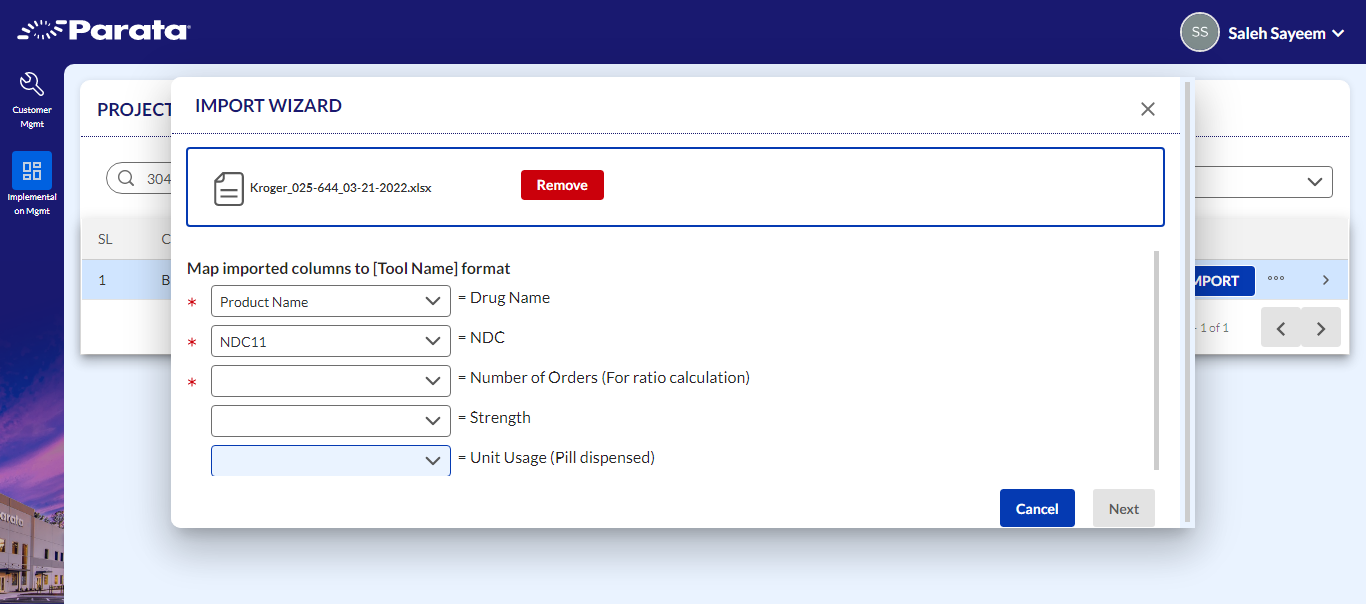
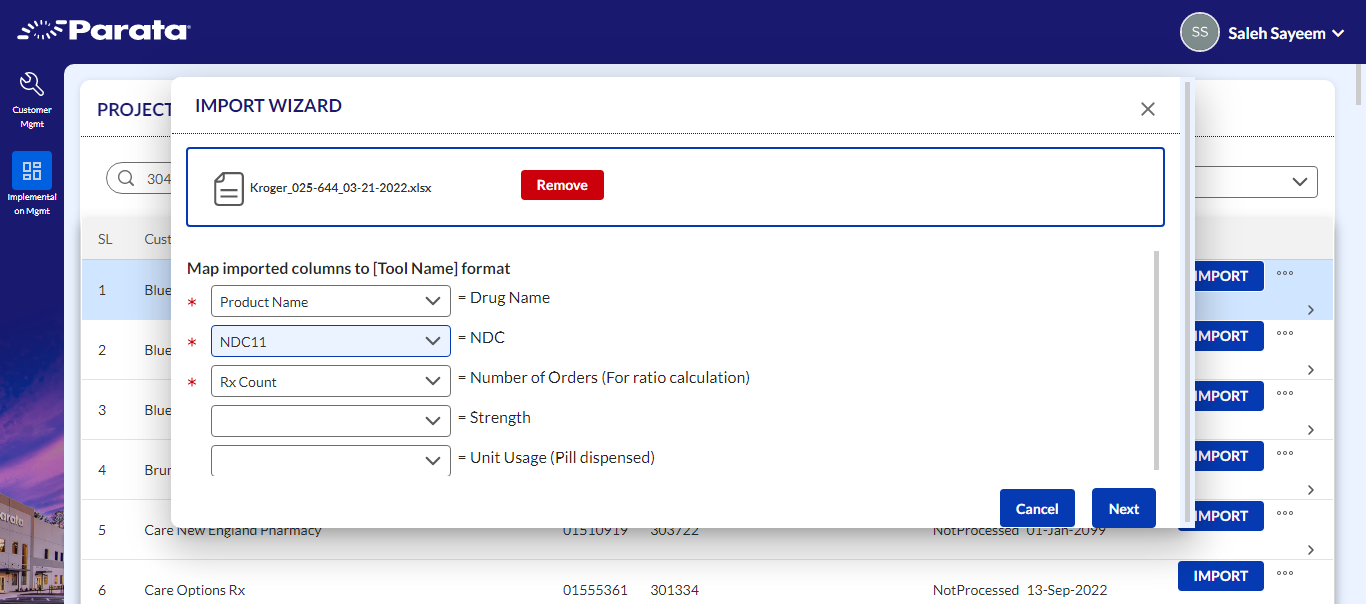
Import Page first phage

diff --git a/src/test/java/com/parata/steps/ImplementationMPageSteps.java b/src/test/java/com/parata/steps/ImplementationMPageSteps.java
@@ -106,19 +106,22 @@ public class ImplementationMPageSteps extends AutomationBase {
 
     @Then("user clicks Rx from drug dropdown")
     public void userClicksDrugMapDropdown3() throws InterruptedException {
-        implementationMPage.selectBtnRxDragName();
+        implementationMPage.userselectMapDropdown3();
         smartWait.waitUntilPageIsLoaded(10);
     }
 
     @Then("select {string} Rx from drug dropdown")
     public void selectDrugRxName(String arg0) throws InterruptedException {
         Utility.dropdownCount(openDriver(), ".mat-option>span");
-        implementationMPage.userselectMapDropdown3();
+        implementationMPage.selectBtnRxDragName();
         smartWait.waitUntilPageIsLoaded(10);
     }
 
-
-
+    @Then("user click next button")
+    public void userClicksNextButton() throws InterruptedException {
+        implementationMPage.userclickedNextButton();
+        smartWait.waitUntilPageIsLoaded(10);
+    }
 
 }
 

diff --git a/src/test/java/com/parata/pages/ImplementationMPage.java b/src/test/java/com/parata/pages/ImplementationMPage.java
@@ -60,6 +60,10 @@ public class ImplementationMPage extends CommonPageMethods {
     @FindBy(how = How.XPATH, using = ("//*[@id=\"mat-option-24\"]"))
     public WebElement btnRxName;
 
+    @FindBy(how = How.XPATH, using = ("/html/body/div[3]/div[2]/div/mat-dialog-container/app-import-wizard-one/div/form/mat-dialog-actions/button[2]"))
+    public WebElement btnNext;
+
+
     WebDriver webDriver;
 
     public ImplementationMPage(WebDriver webDriver) {
@@ -116,6 +120,9 @@ public class ImplementationMPage extends CommonPageMethods {
     }
     public void selectBtnRxDragName() throws InterruptedException {
         click(btnRxName);
+    }
+    public void userclickedNextButton() throws InterruptedException {
+        click(btnNext);
     }
 
 }
